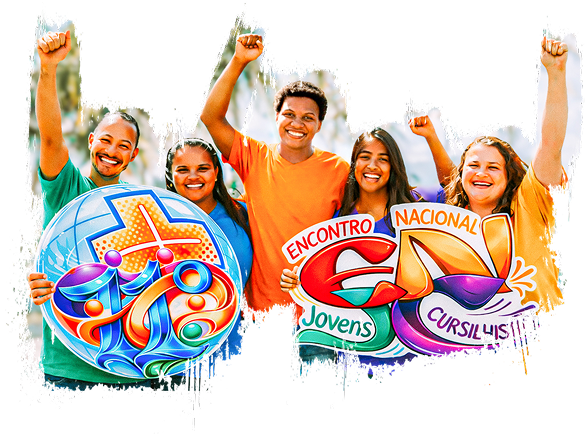
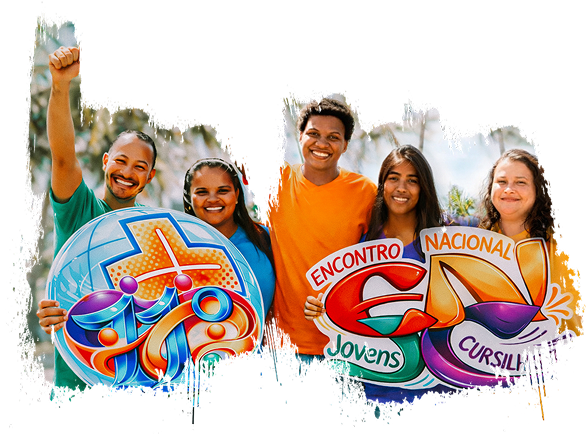
imagem inicial

diff --git a/src/components/layout/HeaderHero/HeaderHero.module.css b/src/components/layout/HeaderHero/HeaderHero.module.css
@@ -28,9 +28,9 @@
   --enjc-top: 54px;
 
   --jovens-left: -15px;
-  --jovens-top: 215px;
+  --jovens-top: 170px;
   --jovens-w: 340px;
-  --jovens-h: 211.0176px;
+  --jovens-h: 260px;
 
   --floatTop-left: 180px;
   --floatTop-top: 96px;
@@ -75,9 +75,9 @@
     --enjc-top: 112px;
 
     --jovens-left: -50px;
-    --jovens-top: 360px;
+    --jovens-top: 300px;
     --jovens-w: 694px;
-    --jovens-h: 435.2239px;
+    --jovens-h: 490px;
 
     --floatTop-left: 349px;
     --floatTop-top: 120px;
@@ -174,9 +174,9 @@
     --enjc-top: 159px;
 
     --jovens-left: 590px;
-    --jovens-top: 140px;
+    --jovens-top: 40px;
     --jovens-w: 837px;
-    --jovens-h: 540px;
+    --jovens-h: 640px;
 
     --floatTop-left: 445px;
     --floatTop-top: 177px;

diff --git a/src/components/layout/InscricaoPopup/InscricaoPopup.tsx b/src/components/layout/InscricaoPopup/InscricaoPopup.tsx
@@ -994,7 +994,7 @@ function StepBoasVindas() {
     <div className={styles.step1Grid}>
       <div className={styles.step1Image} aria-hidden="true">
         <Image
-          src="/assets/formulario/imagem-initial.png"
+          src="/assets/formulario/macrorepresentantes.png"
           alt=""
           fill
           className={styles.cover}
@@ -2443,7 +2443,7 @@ function StepEncerramento({
     <div className={styles.step1Grid}>
       <div className={styles.step1Image} aria-hidden="true">
         <Image
-          src="/assets/formulario/imagem-inicial.png"
+          src="/assets/formulario/macrorepresentantes.png"
           alt=""
           fill
           className={styles.cover}

diff --git a/src/components/layout/HeaderHero/HeaderHero.tsx b/src/components/layout/HeaderHero/HeaderHero.tsx
@@ -119,7 +119,7 @@ export default function HeaderHero({ onOpenInscricao }: Props) {
         <div className={styles.jovens} data-reveal="right">
           <div className={styles.floatJovens}>
             <Image
-              src="/assets/hero/imagem-jovens.png"
+              src="/assets/hero/macrorepresentantes.png"
               alt="Jovens"
               fill
               className={styles.cover}
